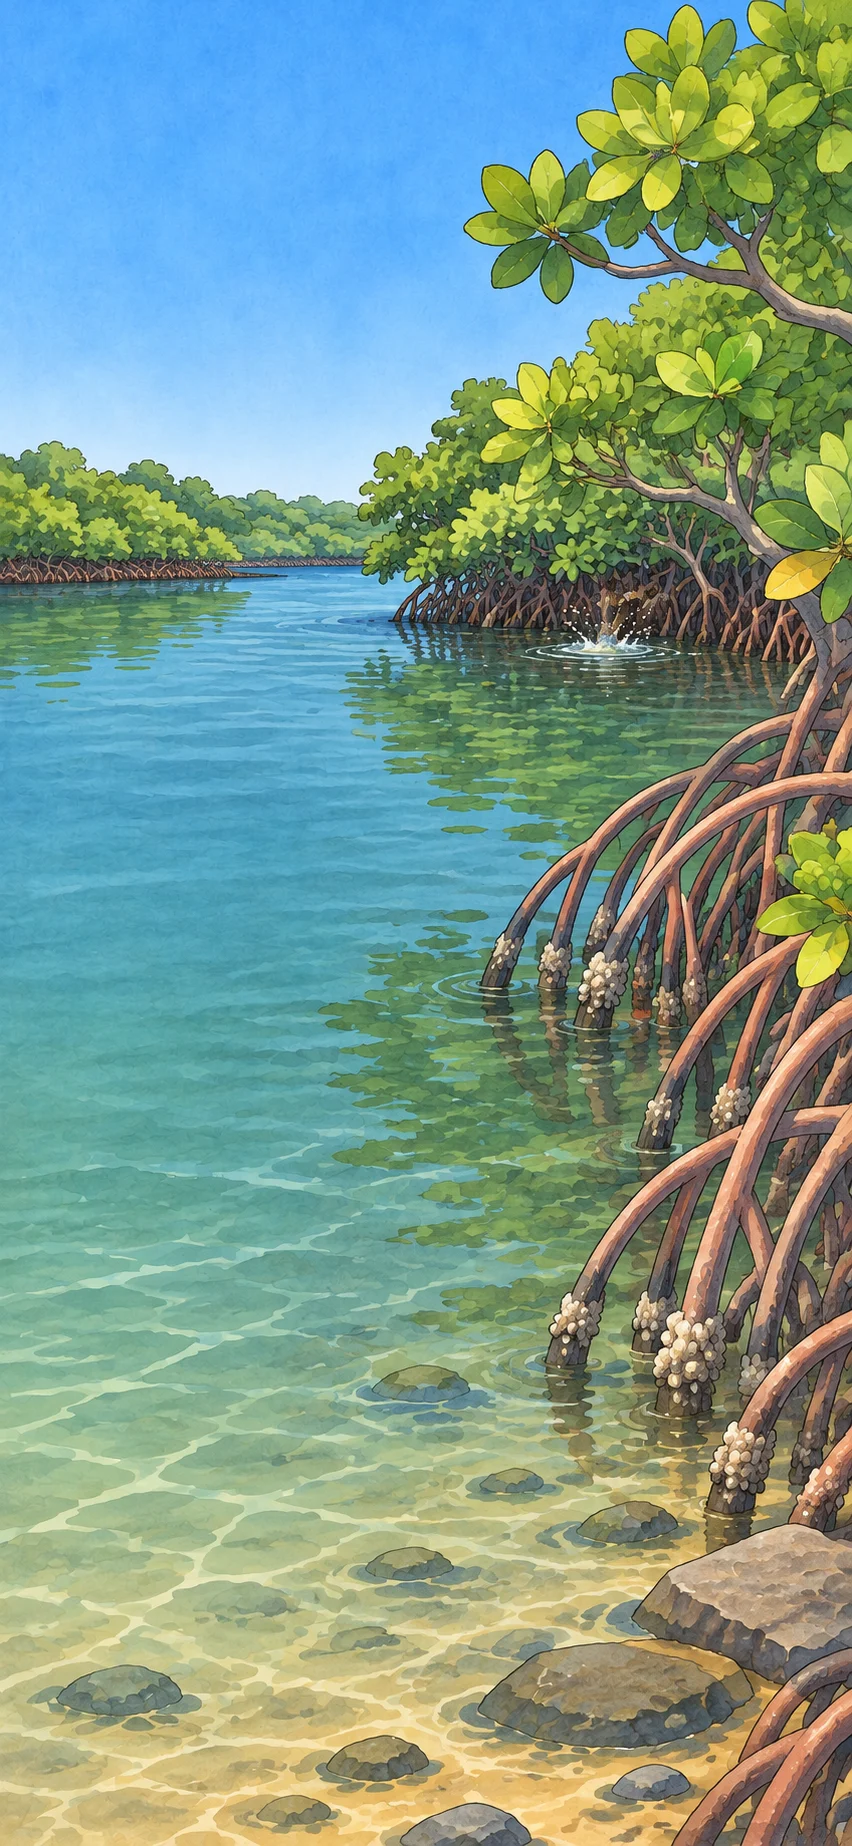
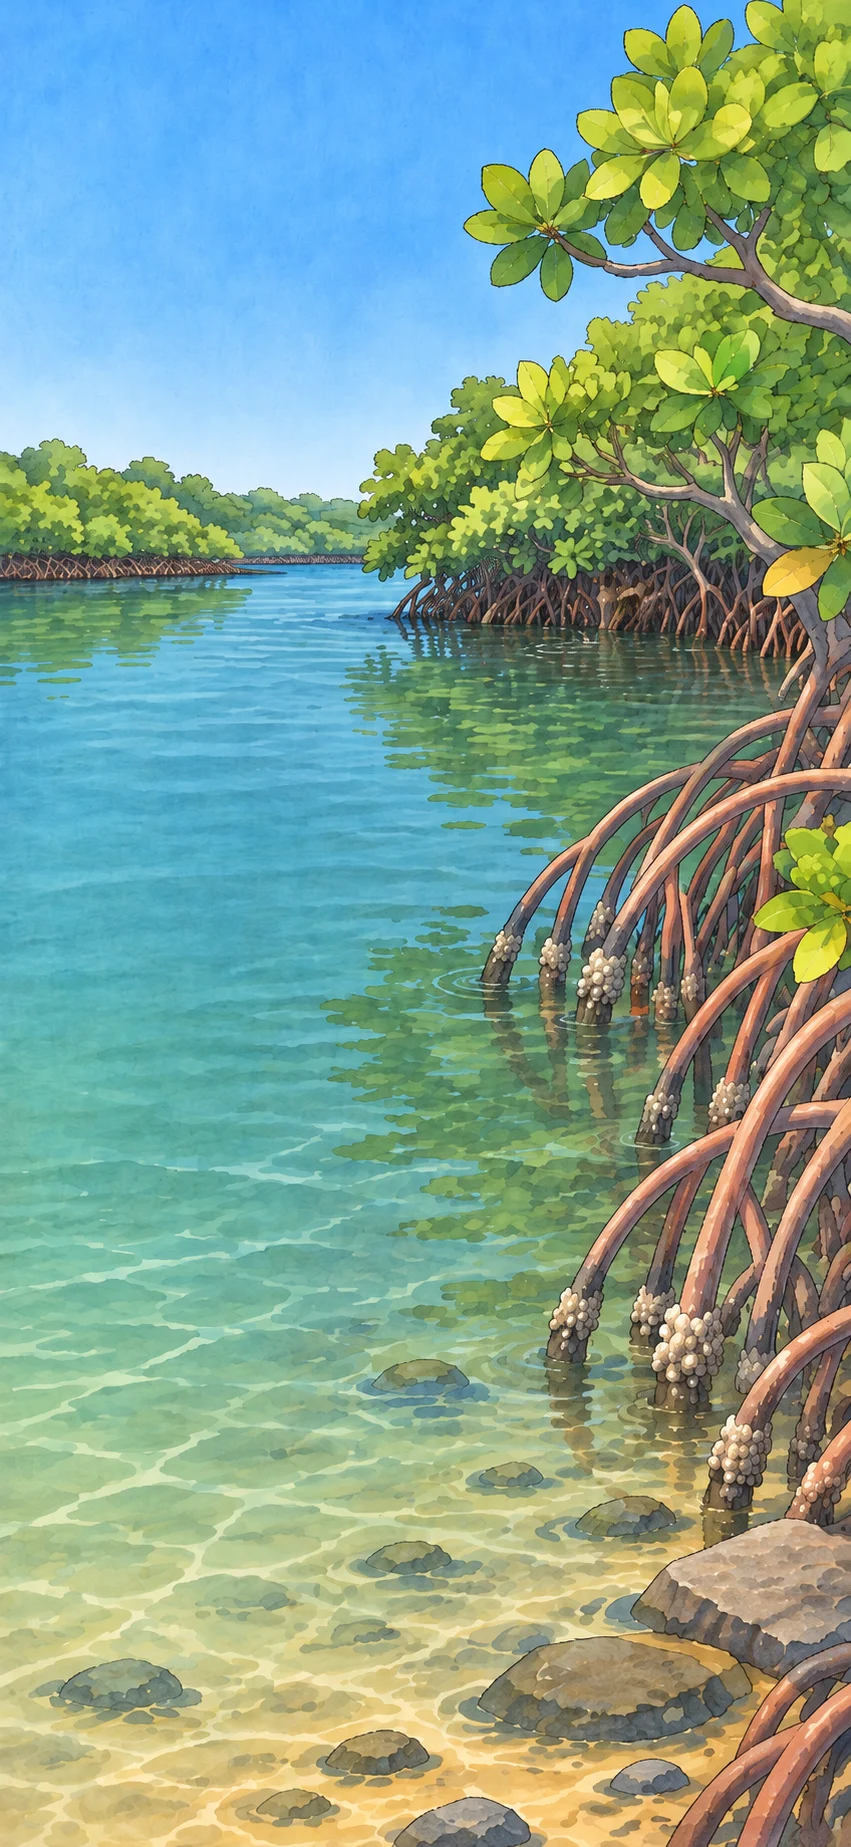
The Cut without the boat, Mangrove Creek without the splash
Both redone as edits of the same images, so horizons and tap spots stand.

diff --git a/docs/DECISIONS.md b/docs/DECISIONS.md
@@ -105,7 +105,7 @@ Each entry records where the build departs from `docs/SPEC.md`, and why.
 46. **Every scene has real art**, 18 November 2026: the nine remaining scenes from Andy's ChatGPT batch, all 852 × 1846, so no phone crops them. Each scene's data was fitted to its image.
     - Horizons were measured from the images: 0.23 for the beach, lagoon, town pier, patch reef and the Cut. Mangrove Creek is 0.31, where the open water meets the far bank.
     - Tap spots were moved onto the things they name where the art put them elsewhere. Port Esperanza's market, orders board, tackle shop, museum and boatyard are painted about 20% higher than the old spots, and Old Tobias's spot was in the water; all six moved. The grove's coconuts and vines moved, the camp's fire moved onto the painted stone ring, and the pier's sardines moved onto the painted school.
-    - Known small departures from the prompt: a sport-fishing boat on the Cut's horizon, and a splash by the mangrove roots. Neither affects play.
+    - The first Cut had a sport-fishing boat on its horizon and the first Mangrove Creek a splash by the roots. Both were redone as edits of the same images with only that detail removed, so their horizons and tap spots stand.
 
 ## Schema additions (spec section 11)
 
